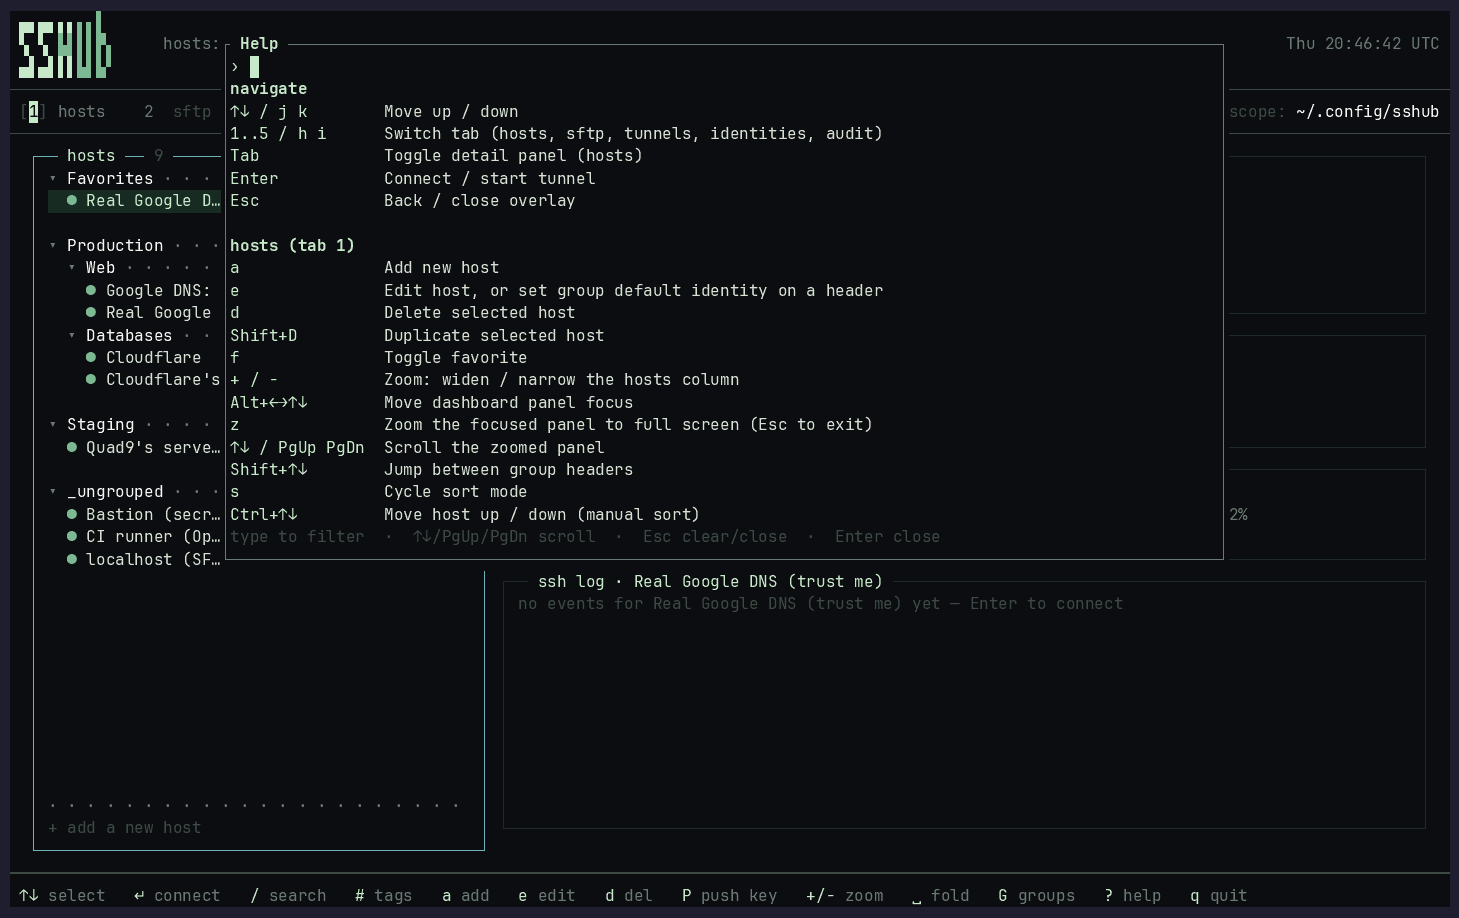
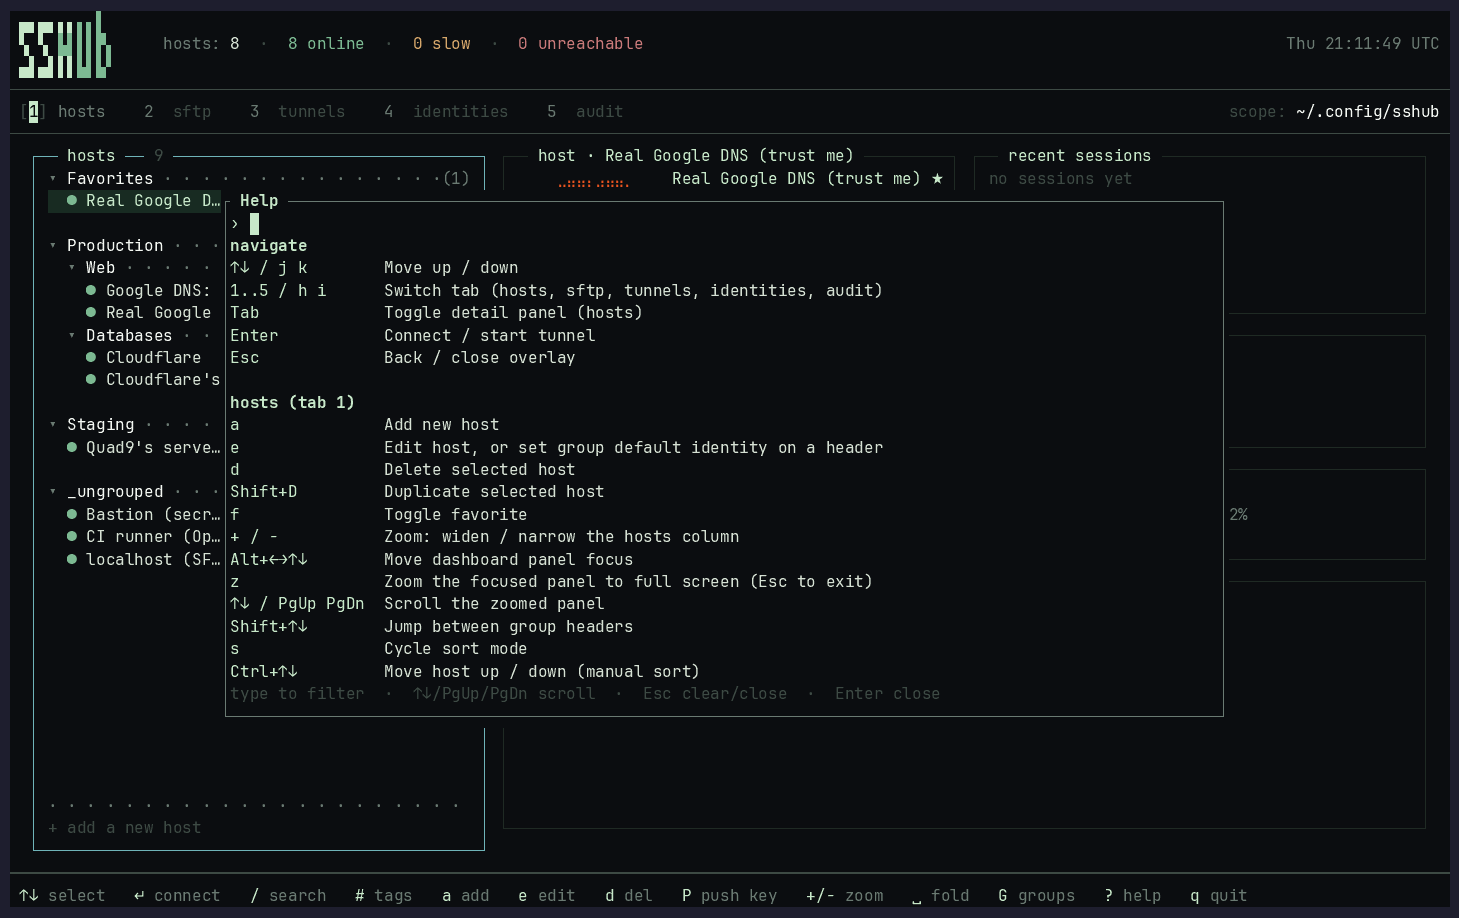
fix(demo): screenshots were catching popups in mid-flight
Two faults in how a still was picked, both of which put a clipped popup in the
README.

The mark did not reserve any time, so it shared a timestamp with whatever came
next — usually the Esc that closes the overlay. The frame at that moment is the
first of the close slide, which lifts the popup off the top of the screen, so the
screenshot showed it with its title and top border already gone.

And the frame was chosen as the first one at or after the mark. An idle screen
emits nothing at all, since ratatui writes only the cells that changed, so "the
next frame" is the next thing that moved — for the hosts screenshot, the palette
opening 0.3s later, caught halfway in. The frame that was actually on screen is
the last one at or before the mark.

diff --git a/demo/record.py b/demo/record.py
@@ -122,10 +122,21 @@ class Tape:
         return self
 
     def still(self, name: str) -> "Tape":
-        """Keep this moment as a screenshot. Extracted from the rendered GIF, so
-        it carries the GIF's 256-colour palette — for a terminal that is a few
-        dozen colours wide, that is lossless in practice."""
-        self.stills.append((name, self.t))
+        """Keep this moment as a screenshot.
+
+        Scheduled like a keystroke rather than remembered as a script offset:
+        the recording is trimmed on a *measured* moment, so anything derived from
+        script time drifts, and a still that lands 200ms early catches a popup
+        still sliding in. Extracted from the rendered GIF, so it carries the
+        GIF's 256-colour palette — for a terminal that is a few dozen colours
+        wide, that is lossless in practice.
+        """
+        self.script.append((self.t, ("still", name)))
+        # Reserve a moment afterwards. Without it the marker and whatever comes
+        # next (usually the Esc that closes the overlay) share a timestamp, and
+        # the screenshot catches the popup already sliding back out — clipped at
+        # the top, which is exactly how the close animation starts.
+        self.t += 0.3
         return self
 
 
@@ -148,6 +159,7 @@ def record(tape: Tape, env: dict[str, str], cast: Path) -> float:
     script = sorted(tape.script, key=lambda item: item[0])
     t0 = time.monotonic()
     trim_at: float | None = None
+    stills: list[tuple[str, float]] = []
     events: list[list] = []
     step = 0
     while True:
@@ -161,6 +173,8 @@ def record(tape: Tape, env: dict[str, str], cast: Path) -> float:
                 time.sleep(0.12)
                 winsize(COLS)
                 trim_at = time.monotonic() - t0
+            elif isinstance(action, tuple) and action[0] == "still":
+                stills.append((action[1], time.monotonic() - t0))
             else:
                 os.write(master, action)
             step += 1
@@ -187,6 +201,8 @@ def record(tape: Tape, env: dict[str, str], cast: Path) -> float:
     if trim_at is not None:
         events = [[round(t - trim_at, 6), kind, data]
                   for t, kind, data in events if t >= trim_at]
+        stills = [(name, round(at - trim_at, 6)) for name, at in stills]
+    tape.stills = stills
     header = {"version": 2, "width": COLS, "height": ROWS,
               "timestamp": int(time.time()),
               "env": {"TERM": "xterm-256color", "SHELL": "/bin/sh"}}
@@ -202,13 +218,24 @@ def render(cast: Path, gif: Path) -> None:
     ], check=True, stderr=subprocess.DEVNULL)
 
 
-def grab_stills(gif: Path, stills: list[tuple[str, float]], offset: float) -> None:
+def grab_stills(gif: Path, stills: list[tuple[str, float]]) -> None:
+    """Pull each marked moment out of the rendered GIF.
+
+    Takes the last frame at or before the mark, which is the one that was on
+    screen then. Not `-ss` seeking (a GIF whose frames carry real, uneven delays
+    does not seek predictably) and not the first frame *after* the mark either: an
+    idle screen emits no frames at all, since ratatui only writes what changed, so
+    "the next frame" is whatever moved next — usually a popup opening.
+    """
     SHOTS.mkdir(parents=True, exist_ok=True)
     for name, at in stills:
-        subprocess.run(["ffmpeg", "-y", "-loglevel", "error", "-ss", f"{max(at - offset, 0):.2f}",
-                        "-i", str(gif), "-frames:v", "1", str(SHOTS / f"{name}.png")],
+        # -update rewrites the same file for every selected frame, so the one
+        # left behind is the last that qualified.
+        subprocess.run(["ffmpeg", "-y", "-loglevel", "error", "-i", str(gif),
+                        "-vf", f"select=lte(t\\,{at:.3f})", "-update", "1",
+                        "-fps_mode", "passthrough", str(SHOTS / f"{name}.png")],
                        check=True)
-        print(f"    {SHOTS.name}/{name}.png")
+        print(f"    {SHOTS.name}/{name}.png  (t={at:.2f}s)")
 
 
 def env_for(slug: str, cwd: Path | None = None) -> dict[str, str]:
@@ -400,8 +427,7 @@ def main(argv: list[str]) -> int:
     for name in names:
         spec = SCENARIOS[name]
         tape = spec["build"]()
-        offset = tape.start or 0.0
-        want = tape.script[-1][0] - offset + TAIL
+        want = tape.script[-1][0] - (tape.start or 0.0) + TAIL
         if spec.get("setup"):
             subprocess.run(spec["setup"], cwd=ROOT, check=True, stdout=subprocess.DEVNULL)
         try:
@@ -421,7 +447,7 @@ def main(argv: list[str]) -> int:
         gif = (BUILD if spec.get("scratch") else GIFS) / f"{name}.gif"
         render(cast, gif)
         print(f"    {gif.relative_to(ROOT)}: {gif.stat().st_size / 1e6:.1f} MB")
-        grab_stills(gif, tape.stills, offset)
+        grab_stills(gif, tape.stills)
     return 1 if failed else 0
 
 
